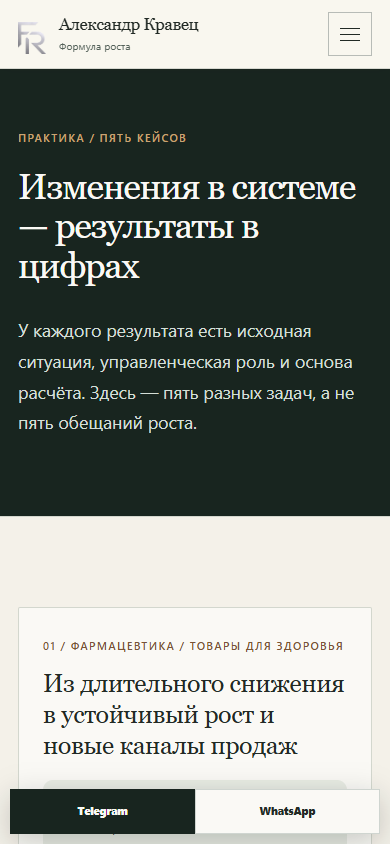
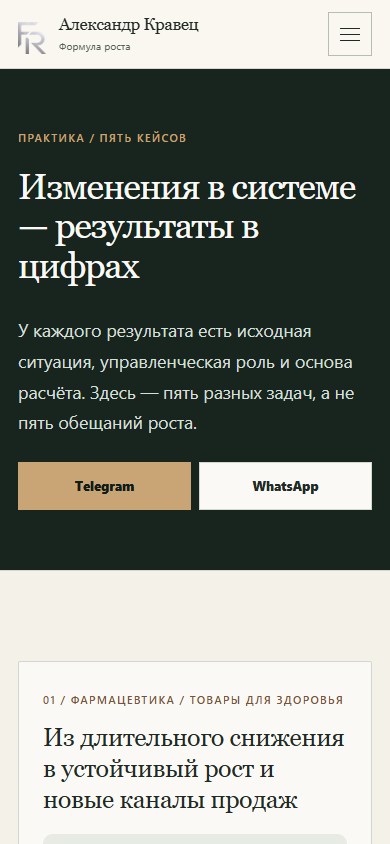
Fix mobile messenger panel before V27 release

diff --git a/site.js b/site.js
@@ -9,7 +9,9 @@
     document.documentElement.style.setProperty("--header-height", `${height}px`);
     const fixed = layoutHeader && getComputedStyle(layoutHeader).position === "fixed";
     document.documentElement.style.setProperty("--header-flow-offset", `${fixed ? height : 0}px`);
-    const ctaHeight = document.querySelector(".mobile-cta")?.getBoundingClientRect().height || 0;
+    const cta = document.querySelector(".mobile-cta");
+    const fixedCta = cta && getComputedStyle(cta).position === "fixed";
+    const ctaHeight = fixedCta ? cta.getBoundingClientRect().height : 0;
     document.documentElement.style.setProperty("--mobile-cta-space", `${ctaHeight ? ctaHeight + 28 : 0}px`);
     const openMenu = document.querySelector(".mobile-nav:not([hidden])");
     if (openMenu) openMenu.style.top = `${height}px`;
@@ -27,6 +29,22 @@
     if (document.readyState === "loading") document.addEventListener("DOMContentLoaded", observeCta, { once: true });
     else observeCta();
   }
+
+  // Keep mobile messenger actions in normal flow, after the opening content.
+  // With JavaScript disabled the same non-fixed panel remains at the page end.
+  const placeMobileContacts = () => {
+    const panel = document.querySelector(".mobile-cta");
+    const opening = document.querySelector("main > section .shell");
+    if (!panel || !opening || !document.body.classList.contains("fr-premium")) return;
+    const metrics = Array.from(opening.children).find((child) =>
+      child.classList.contains("fr-metrics") || child.classList.contains("proof-line"));
+    opening.insertBefore(panel, metrics || null);
+    panel.dataset.placement = "flow";
+    syncLayout();
+  };
+  if (document.readyState === "loading") {
+    document.addEventListener("DOMContentLoaded", placeMobileContacts, { once: true });
+  } else placeMobileContacts();
 
   // MAX direct messages stay absent until the owner supplies and confirms a profile URL.
   // A channel URL must never become a direct-message button.

diff --git a/premium.css b/premium.css
@@ -320,3 +320,13 @@
 .fr-premium .fr-dark .article-meta a{color:#d7b386;font-size:14px;min-height:44px;display:inline-flex;align-items:center}
 @media(max-width:1000px){.fr-premium .service-proof__grid{grid-template-columns:minmax(0,1fr);gap:22px}}
 @media(max-width:680px){.fr-premium .hotfix-results-grid{grid-template-columns:minmax(0,1fr)}.fr-premium .hotfix-results-grid article{padding:24px}}
+
+/* Messenger actions occupy their own row instead of covering the viewport. */
+@media(max-width:680px){
+ body.fr-premium{padding-bottom:env(safe-area-inset-bottom,0px)}
+ html:has(body.fr-premium){scroll-padding-bottom:0}
+ .fr-premium .mobile-cta{position:static;inset:auto;z-index:auto;width:100%;grid-column:1/-1;display:grid;grid-template-columns:repeat(2,minmax(0,1fr));gap:8px;margin:24px 0 0;box-shadow:none;visibility:visible}
+ .fr-premium .shell[class*="__grid"]>.mobile-cta{margin-top:0;order:99}
+ .fr-premium .mobile-cta a{min-height:48px;font-size:13px;border:1px solid var(--fr-line)}
+ .fr-premium .fr-dark .mobile-cta a:first-child{background:var(--fr-bronze);color:var(--fr-night-deep);border-color:var(--fr-bronze)}
+}

diff --git a/docs/design-system.md b/docs/design-system.md
@@ -2,7 +2,7 @@
 
 Визуальный ориентир — утверждённый макет A (`a-full (1).png`). CSS-основа — предоставленный `FORMULA_ROSTA_V27_APPEND_TO_STYLES.css`. Палитра `--v27-*`, бронзовые линии, светлые показатели, фоны и ритм разделов перенесены в изолированный `premium.css`. Глобальные селекторы ограничены `fr-premium`, а `nth-of-type` заменён смысловыми атрибутами, чтобы оформление не зависело от числа секций. Серебряная эмблема, фотография Александра, контакты и реальная навигация берутся из действующего сайта. Панель переключения концепций и временный логотип макета не используются.
 
-V27 распространена на все 57 действующих HTML-страниц в ветке `design-v27-premium`. Дизайн не опубликован в main. Контакты унифицированы: Telegram и WhatsApp — личные сообщения, MAX — канал «Формула роста». Видимый телефон и телефонные aria-label удалены; номер остаётся только внутри согласованного URL WhatsApp.
+V27 распространена на все 57 действующих HTML-страниц в ветке `design-v27-premium`. Контакты унифицированы: Telegram и WhatsApp — личные сообщения, MAX — канал «Формула роста». Видимый телефон и телефонные aria-label удалены; номер остаётся только внутри согласованного URL WhatsApp.
 
 ## Подключение
 
@@ -59,3 +59,8 @@ V27 распространена на все 57 действующих HTML-ст
 - MAX: https://max.ru/join/k2QL7Pt9u58fANz_TeDPS4544NNb7YW2O73SHhbTSmk — канал «Формула роста», не личный чат.
 
 Личная кнопка MAX пока отсутствует в DOM. Для будущего подключения в site.js предусмотрены пустой maxDirectProfileUrl и флаг maxDirectProfileVerified=false. Заполнять их только после получения и проверки личного профиля от владельца; ссылка канала /join/ отклоняется. Место в подвале скрыто и не является неработающей кнопкой.
+
+
+## Мобильная панель контактов
+
+Telegram/WhatsApp находятся в обычном потоке вступительного раздела, после его содержания и фотографии. Панель не закреплена поверх viewport. Без JavaScript она остаётся в потоке в конце документа. Нижний резерв рассчитывается только для действительно фиксированных панелей; подписи и ссылки мессенджеров сохранены.

diff --git a/docs/v27-review/validation.md b/docs/v27-review/validation.md
@@ -1,6 +1,6 @@
 # V27 Premium — результаты завершения
 
-Ветка: `design-v27-premium`. Изменения подготовлены для проверки и не объединены в main.
+Ветка: `design-v27-premium`. Финальная проверка перед выпуском V27.
 
 ## Сайт и контакты
 
@@ -33,3 +33,7 @@
 Контраст рассчитан для видимого текста: минимум 4.5:1 для обычного и 3:1 для крупного текста. Проверка не является полным аудитом accessibility. Внешние HTTP-проверки подтверждают доступность страниц мессенджеров, сообщения не отправлялись.
 
 24 снимка первого экрана и полных страниц обновлены для desktop 1440 px и mobile 390 px: главная, фарм-кейс, услуги, «Обо мне», каталог кейсов и материалы. Старые изображения с номером заменены в текущей версии ветки.
+
+## Финальное исправление мобильной панели
+
+Панель мессенджеров переведена из fixed в обычный поток вступительного блока; в grid она располагается после фото. При отсутствии JavaScript панель остаётся в потоке в конце страницы. Для всех мобильных страниц проверены отсутствие пересечений панели с изображениями, абзацами, заголовками, раскрывающимися блоками и элементами управления. Фиктивный нижний резерв убран. Ссылки и содержание не изменены.

diff --git a/docs/v27-review/README.md b/docs/v27-review/README.md
@@ -1,6 +1,6 @@
 # V27 Premium — проверка полного сайта
 
-Ветка: `design-v27-premium`. Скриншоты отражают состояние сайта в этом коммите. В main изменения не объединены.
+Ветка: `design-v27-premium`. Скриншоты отражают состояние сайта в этом коммите. Материалы финальной версии V27 для публикации.
 
 Премиальный дизайн подключён ко всем 57 HTML-страницам. Видимый личный телефон удалён, ссылки и подписи мессенджеров обновлены. Скриншоты прежнего предпросмотра заменены: в текущих изображениях нет старых подписей с номером.
 
@@ -15,7 +15,7 @@
 | Каталог кейсов | [1440 px](cases-1440.png) | [Полностью](cases-1440-full.png) | [390 px](cases-390.png) | [Полностью](cases-390-full.png) |
 | Материалы и канал MAX | [1440 px](materials-1440.png) | [Полностью](materials-1440-full.png) | [390 px](materials-390.png) | [Полностью](materials-390-full.png) |
 
-Длинные снимки браузера фиксируют плавающие элементы один раз; при оценке меню и нижней панели учитывайте также снимки первого экрана.
+Мобильная панель Telegram/WhatsApp переведена в обычный поток: фото, текст и интерфейс не перекрываются. Длинные снимки браузера фиксируют sticky header один раз; для проверки меню учитывайте также снимки первого экрана.
 
 ## Проверки этапа
 
